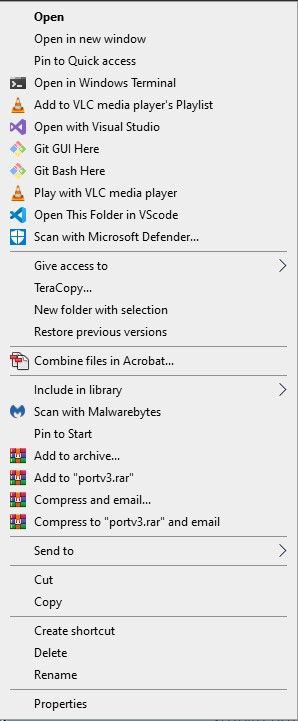
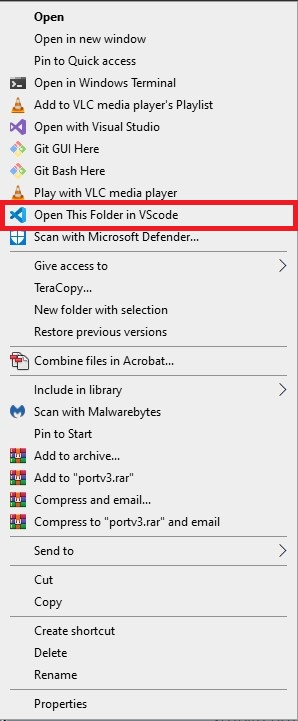
correction
corrected link in readme and added outline to image

Changed region(s): [[0.0, 0.2746, 1.0, 0.3356]]

diff --git a/README.md b/README.md
@@ -9,4 +9,4 @@ Add "Open this Folder in VSCode" option to the Right Click Context Menu
 
 Just edit the registry file and replace <User> with your username
 
-![Screenshot](https://github.com/lnsflive/VSCodeContextMenu/blob/master/ss1.jpg)
+![Screenshot](https://github.com/lnsflive/VSCodeContextMenu/blob/main/ss1.jpg)
